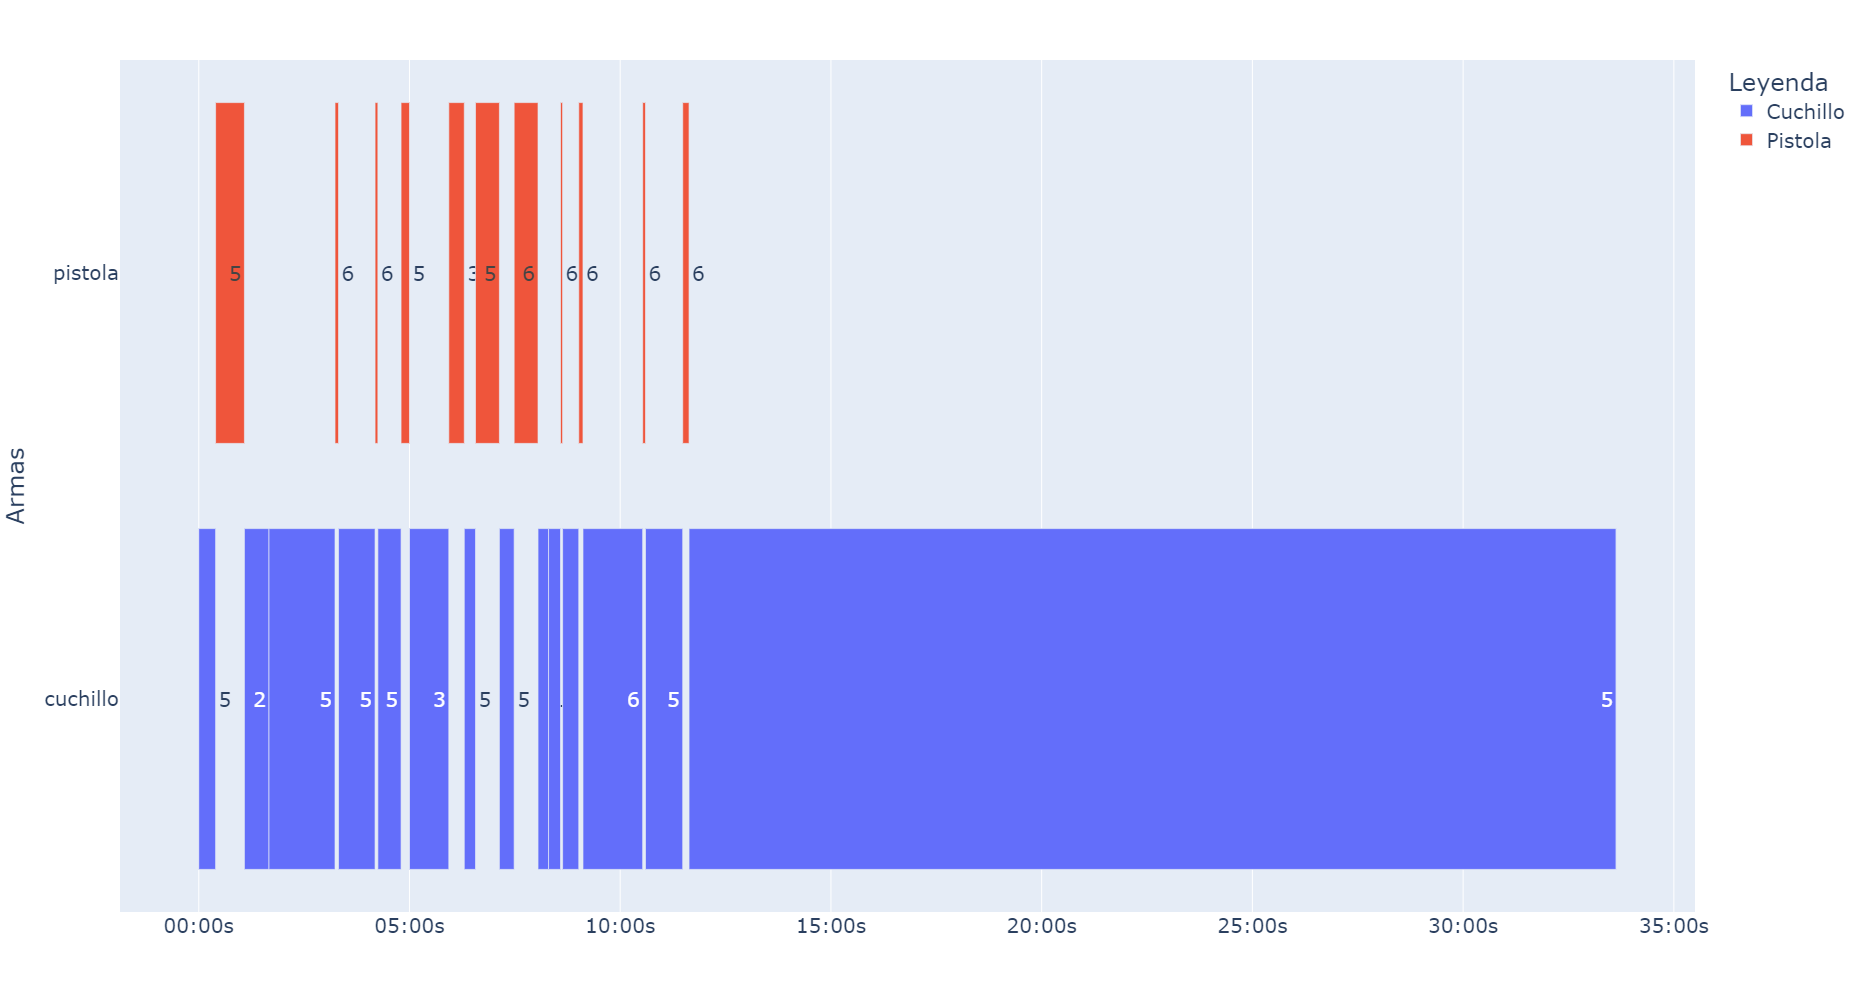
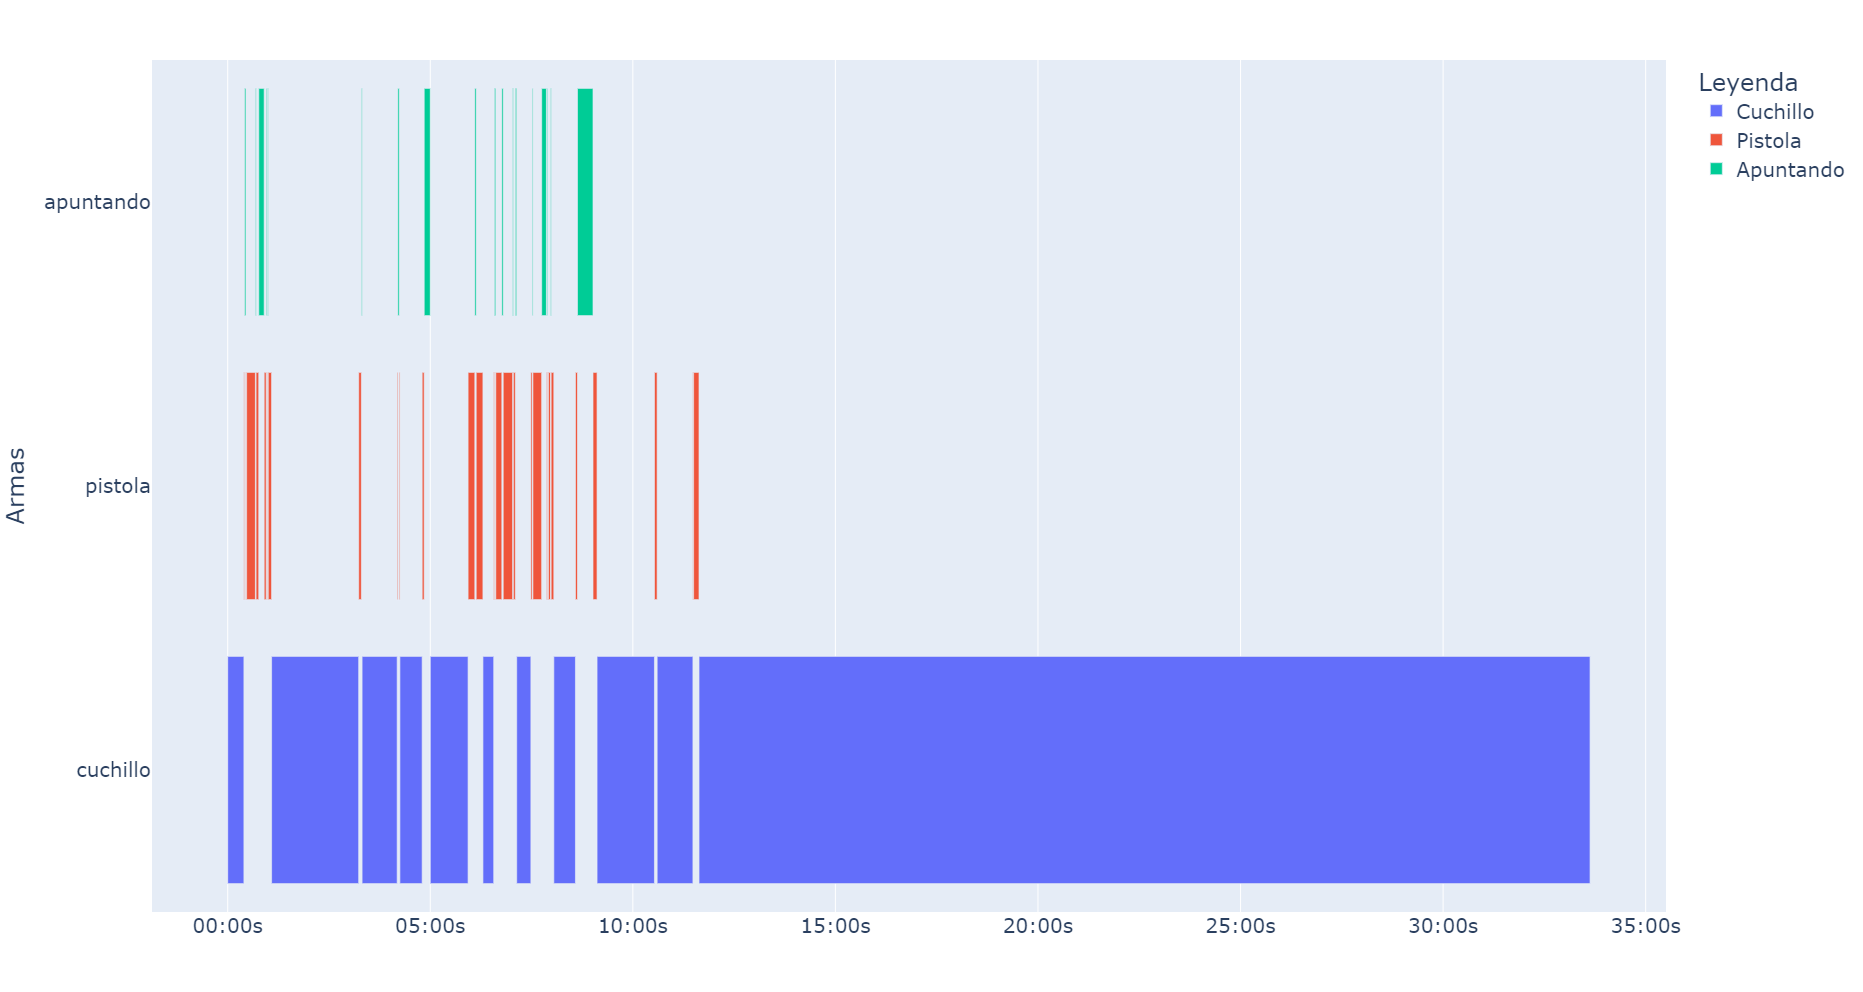
Cambios timelines y código comentado

Changed region(s): [[0.0311, 0.0625, 0.9962, 0.9375]]

diff --git a/Python/telemetria.py b/Python/telemetria.py
@@ -1,17 +1,17 @@
 import os
 import json
 import matplotlib.pyplot as plt
-import seaborn as sns
 import pandas as pd
 import plotly.express as px
 import matplotlib.ticker as ticker
-import numpy as np
 
-SAVE = True
+SAVE = True # Si es true guarda las imagenes, si es false las muestra
 
-# Pos 0 de cualquier Array = BUILD A
-# Pos 1 de cualquier Array = BUILD B
 
+
+# Variables globales para la correlacion
+#   Pos 0 de cualquier Array = BUILD A
+#   Pos 1 de cualquier Array = BUILD B
 porcentajesTiemposArmasBuilds= [] # Cuchillo->[0]  Pistola->[1] 
 cuchilloTiempoBuilds = []
 pistolaTiempoBuilds = []
@@ -26,6 +26,7 @@ apuntadoTiempoBuilds = []
 
 #____________METODOS PARA EXTRAER METRICAS____________
 
+# Devuelve un diccionario con la distancia y arma de las kills del jugador
 def distanciaKillEne(eventos):
     distanciasMatarEne = []
     # Comprobar que haya el mismo numero de muertes de enemigos que kills haya hecho el jugador
@@ -45,6 +46,7 @@ def distanciaKillEne(eventos):
                 distanciasMatarEne.append(info)
     return distanciasMatarEne        
  
+# Devuelve el tiempo que se ha apuntado en segundos
 def tiempoApuntado(eventos):
     aiming = False
     aimingTiempo = 0
@@ -64,6 +66,7 @@ def tiempoApuntado(eventos):
             aimingTiempo += evento.get('timestamp') - auxTiempo
     return aimingTiempo
 
+# Devuelve el uso del cuchillo y pistola en segundos
 def tiempoUsoArmas(eventos):
     auxTiempo = eventos["INI_SESSION"][0].get('timestamp')  # Tiempo de inicio
     actualWeapon = "KNIFE"                         # Arma actual 
@@ -109,10 +112,11 @@ def tiempoUsoArmas(eventos):
     elif(actualWeapon == "KNIFE"):
         cuchilloTiempo += lastTime - auxTiempo
       
-    return cuchilloTiempo,pistolaTiempo
+    return cuchilloTiempo, pistolaTiempo
 
 #____________METODOS PARA VISUALIZAR DATOS____________
 
+# Genera el mapa de calor de las las muerte segun el tipo de muerte 
 def heatMapDeads(eventos,rutaSave,tipoMuerte=None):
     '''
     tipoMuerte puede ser "ENEMY" o "LASER", si no se pone nada son ambas
@@ -173,6 +177,7 @@ def heatMapDeads(eventos,rutaSave,tipoMuerte=None):
     else:
         plt.show()
 
+# Genera el grafico circular de los datos suministrados y sus opciones
 def graficoCircular(titulo, datos, labels, colors, rutaSave):
     fig = plt.figure(figsize=(6, 6))
     plt.pie(datos, labels=labels, colors=colors, autopct="%0.1f %%")
@@ -184,6 +189,7 @@ def graficoCircular(titulo, datos, labels, colors, rutaSave):
     else:
         plt.show()
 
+# Genera un timeline con los tiempos en los que se usa cada arma y se utiliza el apuntado
 def timelineArmasyApuntado(eventos):
  # Creamos una lista de eventos de prueba
     aux = eventos["CHANGE_WEAPON"] + eventos["POS_PLAYER_DEAD"] + eventos["INI_LVL"] + eventos["END_SESSION"] + eventos["AIMING"] + eventos["NOT_AIMING"]
@@ -286,6 +292,7 @@ def timelineArmasyApuntado(eventos):
     fig.update_layout(font=dict(size=20))
     fig.show()
 
+#____________INICIALIZACION Y USO DE METODOS ANTERIORES____________
 def initData():
     builds= ['A', 'B']
     for b in builds:
@@ -325,13 +332,7 @@ def initData():
         carpeta_archivo = os.path.join(carpeta, 'All')
         os.makedirs(carpeta_archivo, exist_ok=True)
         ruta_relativa = os.path.relpath(carpeta_archivo)
-
-        posArray = 0
-        if b == 'A':
-            posArray = 0
-        elif b == 'B':
-            posArray = 1
-
+       
         dataAux = []
         dataAux = obtenerMetricasBuild(allDatos, ruta_relativa, cuchilloTiempoTotal, pistolaTiempoTotal)
 
@@ -766,7 +767,7 @@ def obtenerMetricas(datos, rutaSave):
     heatMapDeads(eventos, rutaSave, "LASER")
 
     # TIMELINE USO DE ARMAS
-    # timelineArmasyApuntado(eventos)
+    #timelineArmasyApuntado(eventos)
 
     return cuchilloTiempo, pistolaTiempo
 #-----------------------------------------------------------------------------------------

diff --git a/Python/encuesta_entrevista.py b/Python/encuesta_entrevista.py
@@ -1,7 +1,6 @@
 import csv
 import ftfy
 import matplotlib.pyplot as plt
-from collections import Counter
 import numpy as np
 
 # Variables globales
